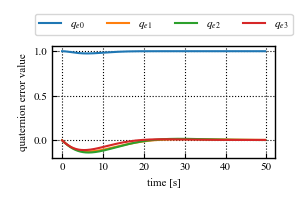
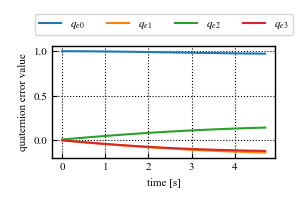
UPDATE: change reward

diff --git a/td3/train.py b/td3/train.py
@@ -20,8 +20,8 @@ def train():
         "batch_size": 128,
         "critic_lr": 1e-3,
         "actor_lr": 1e-4,
-        "max_episodes": 5000,
-        "max_steps": 600,
+        "max_episodes": 10000,
+        "max_steps": 500,
         "gamma": 0.99,
         "tau" : 1e-3,
         "buffer_maxlen": 100000,
@@ -351,9 +351,10 @@ def env_pd():
     actions = np.append(actions, action,axis=0)
 
     dt = 0.1
-    simulation_iterations = int(50/0.1) -1 # dt is 0.01
+    simutime = 50
+    max_steps = int(simutime/dt) -1 # dt is 0.01
 
-    for i in range(1, simulation_iterations):
+    for i in range(1, max_steps):
         action = np.squeeze(action)
         next_error_state, reward, done, next_state, _ = env.step(action)
         # env.render()
@@ -379,6 +380,7 @@ def env_pd():
     w = w.reshape([-1,3])
     # angle = [e for i in]
 
+    #region
     # plot the angle and action curve
     curr_dir = os.path.abspath(os.getcwd())
     if not os.path.isdir("results"):
@@ -398,10 +400,10 @@ def env_pd():
     yoko = 6.0
     #------------------------------------------------
     plt.figure(figsize=(yoko,tate),dpi=100)
-    plt.plot(np.arange(simulation_iterations-1)*dt, q[:,0],label =r"$q_{0}$")
-    plt.plot(np.arange(simulation_iterations-1)*dt, q[:,1],label =r"$q_{1}$")
-    plt.plot(np.arange(simulation_iterations-1)*dt, q[:,2],label =r"$q_{2}$")
-    plt.plot(np.arange(simulation_iterations-1)*dt, q[:,3],label =r"$q_{3}$")
+    plt.plot(np.arange(max_steps-1)*dt, q[:,0],label =r"$q_{0}$")
+    plt.plot(np.arange(max_steps-1)*dt, q[:,1],label =r"$q_{1}$")
+    plt.plot(np.arange(max_steps-1)*dt, q[:,2],label =r"$q_{2}$")
+    plt.plot(np.arange(max_steps-1)*dt, q[:,3],label =r"$q_{3}$")
     # plt.title('Quaternion')
     plt.ylabel('quaternion value')
     plt.xlabel(r'time [s]')
@@ -412,10 +414,10 @@ def env_pd():
     plt.savefig(curr_dir + "/results/pd_test/plot_quat.png")
 
     plt.figure(figsize=(yoko,tate),dpi=100)
-    plt.plot(np.arange(simulation_iterations-1)*dt, qe[:,0],label =r"$q_{e0}$")
-    plt.plot(np.arange(simulation_iterations-1)*dt, qe[:,1],label =r"$q_{e1}$")
-    plt.plot(np.arange(simulation_iterations-1)*dt, qe[:,2],label =r"$q_{e2}$")
-    plt.plot(np.arange(simulation_iterations-1)*dt, qe[:,3],label =r"$q_{e3}$")
+    plt.plot(np.arange(max_steps-1)*dt, qe[:,0],label =r"$q_{e0}$")
+    plt.plot(np.arange(max_steps-1)*dt, qe[:,1],label =r"$q_{e1}$")
+    plt.plot(np.arange(max_steps-1)*dt, qe[:,2],label =r"$q_{e2}$")
+    plt.plot(np.arange(max_steps-1)*dt, qe[:,3],label =r"$q_{e3}$")
     # plt.title('Quaternion Error')
     plt.ylabel('quaternion error value')
     plt.xlabel(r'time [s]')
@@ -425,9 +427,9 @@ def env_pd():
     plt.savefig(curr_dir + "/results/pd_test/plot_quate_error.png")
 
     plt.figure(figsize=(yoko,tate),dpi=100)
-    plt.plot(np.arange(simulation_iterations-1)*dt, w[:,0],label =r"$\omega_{x}$")
-    plt.plot(np.arange(simulation_iterations-1)*dt, w[:,1],label =r"$\omega_{y}$")
-    plt.plot(np.arange(simulation_iterations-1)*dt, w[:,2],label =r"$\omega_{z}$")
+    plt.plot(np.arange(max_steps-1)*dt, w[:,0],label =r"$\omega_{x}$")
+    plt.plot(np.arange(max_steps-1)*dt, w[:,1],label =r"$\omega_{y}$")
+    plt.plot(np.arange(max_steps-1)*dt, w[:,2],label =r"$\omega_{z}$")
     # plt.title('Angular velocity')
     plt.ylabel('angular velocity [rad/s]')
     plt.xlabel(r'time [s]')
@@ -437,9 +439,9 @@ def env_pd():
     plt.savefig(curr_dir + "/results/pd_test/plot_omega.png")
 
     plt.figure(figsize=(yoko,tate),dpi=100)
-    plt.plot(np.arange(simulation_iterations)*dt, actions[:,0],label = r"$\tau_{x}$")
-    plt.plot(np.arange(simulation_iterations)*dt, actions[:,1],label = r"$\tau_{y}$")
-    plt.plot(np.arange(simulation_iterations)*dt, actions[:,2],label = r"$\tau_{z}$")
+    plt.plot(np.arange(max_steps)*dt, actions[:,0],label = r"$\tau_{x}$")
+    plt.plot(np.arange(max_steps)*dt, actions[:,1],label = r"$\tau_{y}$")
+    plt.plot(np.arange(max_steps)*dt, actions[:,2],label = r"$\tau_{z}$")
     # plt.title('Action')
     plt.ylabel('Input torque [Nm]')
     plt.xlabel(r'time [s]')
@@ -449,12 +451,12 @@ def env_pd():
     plt.grid(True, color='k', linestyle='dotted', linewidth=0.8)
     plt.savefig(curr_dir + "/results/pd_test/plot_torque.png")
 
-    angle = np.array([np.rad2deg(env.dcm2euler(env.quaternion2dcm(q[i,:]))).tolist() for i in range(simulation_iterations-1)])
+    angle = np.array([np.rad2deg(env.dcm2euler(env.quaternion2dcm(q[i,:]))).tolist() for i in range(max_steps-1)])
     angle = angle.reshape([-1,3])
     plt.figure(figsize=(yoko,tate),dpi=100)
-    plt.plot(np.arange(simulation_iterations-1)*dt, angle[:,0],label = r"$\phi$")
-    plt.plot(np.arange(simulation_iterations-1)*dt, angle[:,1],label = r"$\theta$")
-    plt.plot(np.arange(simulation_iterations-1)*dt, angle[:,2],label = r"$\psi$")
+    plt.plot(np.arange(max_steps-1)*dt, angle[:,0],label = r"$\phi$")
+    plt.plot(np.arange(max_steps-1)*dt, angle[:,1],label = r"$\theta$")
+    plt.plot(np.arange(max_steps-1)*dt, angle[:,2],label = r"$\psi$")
     # plt.title('Action')
     plt.ylabel('angle [deg]')
     plt.xlabel(r'time [s]')
@@ -464,6 +466,7 @@ def env_pd():
     plt.grid(True, color='k', linestyle='dotted', linewidth=0.8)
     plt.savefig(curr_dir + "/results/pd_test/plot_angle.png")
     plt.show()    
+    #endregion
 
 def env_adaptive():
 
@@ -480,6 +483,7 @@ def env_adaptive():
     q = np.empty((0,4))
     w = np.empty((0,3))
     actions = np.empty((0,3))
+    r_hist = np.empty((0,4))
 
     #----------------------control parameters----------------------------
     alpha = 0.5
@@ -493,11 +497,13 @@ def env_adaptive():
     actions = np.append(actions, action,axis=0)
 
     dt = 0.1
-    simulation_iterations = int(50/0.1) -1 # dt is 0.01
+    simutime = 50
 
-    for i in range(1, simulation_iterations):
+    max_steps = int(simutime/dt) -1 # dt is 0.01
+
+    for i in range(1, max_steps):
         action = np.squeeze(action)
-
+        next_error_state, reward, done, next_state, _ = env.step(action)
         # if i == 20/dt:
         #     env.inertia = env.inertia_comb   #region
         q=np.append(q,next_state[:4].reshape(1,-1),axis=0)
@@ -536,7 +542,6 @@ def env_adaptive():
 
     #---------------------結果のプロット開始-------------------------#
     #region
-    # plot the angle and action curve
     #-------------------plot settings------------------------------
     plt.rcParams['font.family'] = 'Times New Roman' # font familyの設定
     plt.rcParams['mathtext.fontset'] = 'stix' # math fontの設定
@@ -547,14 +552,25 @@ def env_adaptive():
     plt.rcParams['ytick.direction'] = 'in' # y axis in 
     plt.rcParams['axes.linewidth'] = 1.0 # axis line width
     plt.rcParams['axes.grid'] = True # make grid
-    tate = 2.0
-    yoko = 3.0
+    plt.rcParams["legend.loc"] = "best"         # 凡例の位置、"best"でいい感じのところ
+    plt.rcParams["legend.frameon"] = True       # 凡例を囲うかどうか、Trueで囲う、Falseで囲わない
+    plt.rcParams["legend.framealpha"] = 1.0     # 透過度、0.0から1.0の値を入れる
+    plt.rcParams["legend.facecolor"] = "white"  # 背景色
+    # plt.rcParams["legend.edgecolor"] = "black"  # 囲いの色
+    plt.rcParams["legend.fancybox"] = True     # Trueにすると囲いの四隅が丸くなる
+    tate = 4.0
+    yoko = 8.0
     #------------------------------------------------
-    plt.figure(figsize=(yoko,tate),dpi=100)
-    plt.plot(np.arange(simulation_iterations-1)*dt, q[:,0],label =r"$q_{0}$")
-    plt.plot(np.arange(simulation_iterations-1)*dt, q[:,1],label =r"$q_{1}$")
-    plt.plot(np.arange(simulation_iterations-1)*dt, q[:,2],label =r"$q_{2}$")
-    plt.plot(np.arange(simulation_iterations-1)*dt, q[:,3],label =r"$q_{3}$")
+    plt.figure(figsize=(12,5),dpi=100)
+    plt.tight_layout()
+    plt.subplots_adjust(wspace=0.3, hspace=0.3)
+    # plt.figure(figsize=(yoko,tate),dpi=100)
+    plt.subplot(231)
+    # plt.figure(figsize=(yoko,tate),dpi=100)
+    plt.plot(np.arange(max_steps-1)*dt, q[:,0],label =r"$q_{0}$")
+    plt.plot(np.arange(max_steps-1)*dt, q[:,1],label =r"$q_{1}$")
+    plt.plot(np.arange(max_steps-1)*dt, q[:,2],label =r"$q_{2}$")
+    plt.plot(np.arange(max_steps-1)*dt, q[:,3],label =r"$q_{3}$")
     # plt.title('Quaternion')
     plt.ylabel('quaternion value')
     plt.xlabel(r'time [s]')
@@ -562,37 +578,40 @@ def env_adaptive():
     plt.tight_layout()
     plt.grid(True, color='k', linestyle='dotted', linewidth=0.8)
     # plt.grid(True)
-    plt.savefig(curr_dir + "/results/adap_test/plot_quat.png")
+    # plt.savefig(curr_dir + "/results/adap_test/plot_quat.png")
 
-    plt.figure(figsize=(yoko,tate),dpi=100)
-    plt.plot(np.arange(simulation_iterations-1)*dt, qe[:,0],label =r"$q_{e0}$")
-    plt.plot(np.arange(simulation_iterations-1)*dt, qe[:,1],label =r"$q_{e1}$")
-    plt.plot(np.arange(simulation_iterations-1)*dt, qe[:,2],label =r"$q_{e2}$")
-    plt.plot(np.arange(simulation_iterations-1)*dt, qe[:,3],label =r"$q_{e3}$")
+    plt.subplot(232)
+    # plt.figure(figsize=(yoko,tate),dpi=100)
+    plt.plot(np.arange(max_steps-1)*dt, qe[:,0],label =r"$q_{e0}$")
+    plt.plot(np.arange(max_steps-1)*dt, qe[:,1],label =r"$q_{e1}$")
+    plt.plot(np.arange(max_steps-1)*dt, qe[:,2],label =r"$q_{e2}$")
+    plt.plot(np.arange(max_steps-1)*dt, qe[:,3],label =r"$q_{e3}$")
     # plt.title('Quaternion Error')
     plt.ylabel('quaternion error value')
     plt.xlabel(r'time [s]')
     plt.legend(loc="lower center", bbox_to_anchor=(0.5,1.05), ncol=4)
     plt.tight_layout()
     plt.grid(True, color='k', linestyle='dotted', linewidth=0.8)
-    plt.savefig(curr_dir + "/results/adap_test/plot_quate_error.png")
+    # plt.savefig(curr_dir + "/results/adap_test/plot_quate_error.png")
 
-    plt.figure(figsize=(yoko,tate),dpi=100)
-    plt.plot(np.arange(simulation_iterations-1)*dt, w[:,0],label =r"$\omega_{x}$")
-    plt.plot(np.arange(simulation_iterations-1)*dt, w[:,1],label =r"$\omega_{y}$")
-    plt.plot(np.arange(simulation_iterations-1)*dt, w[:,2],label =r"$\omega_{z}$")
+    # plt.figure(figsize=(yoko,tate),dpi=100)
+    plt.subplot(233)
+    plt.plot(np.arange(max_steps-1)*dt, w[:,0],label =r"$\omega_{x}$")
+    plt.plot(np.arange(max_steps-1)*dt, w[:,1],label =r"$\omega_{y}$")
+    plt.plot(np.arange(max_steps-1)*dt, w[:,2],label =r"$\omega_{z}$")
     # plt.title('Angular velocity')
     plt.ylabel('angular velocity [rad/s]')
     plt.xlabel(r'time [s]')
     plt.legend(loc="lower center", bbox_to_anchor=(0.5,1.05), ncol=3)
     plt.tight_layout()
     plt.grid(True, color='k', linestyle='dotted', linewidth=0.8)
-    plt.savefig(curr_dir + "/results/adap_test/plot_omega.png")
+    # plt.savefig(curr_dir + "/results/adap_test/plot_omega.png")
 
-    plt.figure(figsize=(yoko,tate),dpi=100)
-    plt.plot(np.arange(simulation_iterations)*dt, actions[:,0],label = r"$\tau_{x}$")
-    plt.plot(np.arange(simulation_iterations)*dt, actions[:,1],label = r"$\tau_{y}$")
-    plt.plot(np.arange(simulation_iterations)*dt, actions[:,2],label = r"$\tau_{z}$")
+    plt.subplot(234)
+    # plt.figure(figsize=(yoko,tate),dpi=100)
+    plt.plot(np.arange(max_steps)*dt, actions[:,0],label = r"$\tau_{x}$")
+    plt.plot(np.arange(max_steps)*dt, actions[:,1],label = r"$\tau_{y}$")
+    plt.plot(np.arange(max_steps)*dt, actions[:,2],label = r"$\tau_{z}$")
     # plt.title('Action')
     plt.ylabel('Input torque [Nm]')
     plt.xlabel(r'time [s]')
@@ -602,12 +621,13 @@ def env_adaptive():
     plt.grid(True, color='k', linestyle='dotted', linewidth=0.8)
     plt.savefig(curr_dir + "/results/adap_test/plot_torque.png")
 
-    angle = np.array([np.rad2deg(env.dcm2euler(env.quaternion2dcm(q[i,:]))).tolist() for i in range(simulation_iterations-1)])
+    angle = np.array([np.rad2deg(env.dcm2euler(env.quaternion2dcm(q[i,:]))).tolist() for i in range(max_steps-1)])
     angle = angle.reshape([-1,3])
-    plt.figure(figsize=(yoko,tate),dpi=100)
-    plt.plot(np.arange(simulation_iterations-1)*dt, angle[:,0],label = r"$\phi$")
-    plt.plot(np.arange(simulation_iterations-1)*dt, angle[:,1],label = r"$\theta$")
-    plt.plot(np.arange(simulation_iterations-1)*dt, angle[:,2],label = r"$\psi$")
+    plt.subplot(235)
+    # plt.figure(figsize=(yoko,tate),dpi=100)
+    plt.plot(np.arange(max_steps-1)*dt, angle[:,0],label = r"$\phi$")
+    plt.plot(np.arange(max_steps-1)*dt, angle[:,1],label = r"$\theta$")
+    plt.plot(np.arange(max_steps-1)*dt, angle[:,2],label = r"$\psi$")
     # plt.title('Action')
     plt.ylabel('angle [deg]')
     plt.xlabel(r'time [s]')
@@ -615,14 +635,15 @@ def env_adaptive():
     plt.tight_layout()
     # plt.ylim(-20, 20)
     plt.grid(True, color='k', linestyle='dotted', linewidth=0.8)
-    plt.savefig(curr_dir + "/results/adap_test/plot_angle.png")
+    # plt.savefig(curr_dir + "/results/adap_test/plot_angle.png")
 
-    plt.figure(figsize=(yoko,tate),dpi=100)
-    plt.plot(np.arange(max_steps)*dt, r_hist[:,0],label = r"$q$ pnlty")
-    plt.plot(np.arange(max_steps)*dt, r_hist[:,1],label = r"$\omega$ pnlty")
-    plt.plot(np.arange(max_steps)*dt, r_hist[:,2],label = r"$\tau$ pnlty")
-    plt.plot(np.arange(max_steps)*dt, r_hist[:,3],label = r"$\Delta\tau$ pnlty")
-    plt.plot(np.arange(max_steps)*dt, np.sum(r_hist,axis = 1),label = r"$toal$",linestyle='dotted')
+    plt.subplot(236)
+    # plt.figure(figsize=(yoko,tate),dpi=100)
+    plt.plot(np.arange(max_steps-1)*dt, r_hist[:,0],label = r"$q$ pnlty")
+    plt.plot(np.arange(max_steps-1)*dt, r_hist[:,1],label = r"$\omega$ pnlty")
+    plt.plot(np.arange(max_steps-1)*dt, r_hist[:,2],label = r"$\tau$ pnlty")
+    plt.plot(np.arange(max_steps-1)*dt, r_hist[:,3],label = r"$\Delta\tau$ pnlty")
+    plt.plot(np.arange(max_steps-1)*dt, np.sum(r_hist,axis = 1),label = r"$toal$",linestyle='dotted')
     # plt.title('Action')
     plt.ylabel('reward')
     plt.xlabel(r'time [s]')
@@ -630,7 +651,7 @@ def env_adaptive():
     plt.legend()
     # plt.ylim(-20, 20)
     plt.grid(True, color='k', linestyle='dotted', linewidth=0.8)
-    plt.savefig(curr_dir + "/results/adap_test/plot_reward.png")
+    # plt.savefig(curr_dir + "/results/adap_test/plot_reward.png")
     plt.show()    
     #endregion
     #---------------------結果のプロット終わり-----------------------#
@@ -648,3 +669,7 @@ if __name__ == '__main__':
         env_adaptive()
     else:
         print("You entered the wrong number, run again and choose from 1 or 2 or 3.")
+
+    #----------------------control parameters----------------------------
+    alpha = 0.5
+    k = 2

diff --git a/td3/environment.py b/td3/environment.py
@@ -142,11 +142,11 @@ class SatelliteContinuousEnv(gym.Env):
 
         #シミュレーションパラメータ　
         self.dt = 0.1 
-        self.simutime = 60
+        self.simutime = 50
         self.omega_count = 0
         
         #報酬パラメータ
-        self.q_weight = 500#1*20
+        self.q_weight = 50#1*20
         self.w_weight = 1*50#1.5*100
         self.action_weight = 0.25*2#0.25*10
         self.action_rate_weight = 0.1*2
@@ -280,7 +280,7 @@ class SatelliteContinuousEnv(gym.Env):
             self.r4 = self.action_rate_weight*(action_delta@action_delta)/self.dt
             reward = -(self.r1 + self.r2 + self.r3 + self.r4) 
             if max(abs(action)) > 0.5:
-                reward += -25 
+                reward += -100 
 
         elif self.steps_beyond_done is None:
             # epsiode just ended

diff --git a/td3/network.py b/td3/network.py
@@ -73,7 +73,6 @@ class Critic(nn.Module):
         q1 = self.linear4(q1)
         return q1
 
-
 # neural network to approximate actor function
 class Actor(nn.Module):
     def __init__(self, obs_dim, action_dim):
